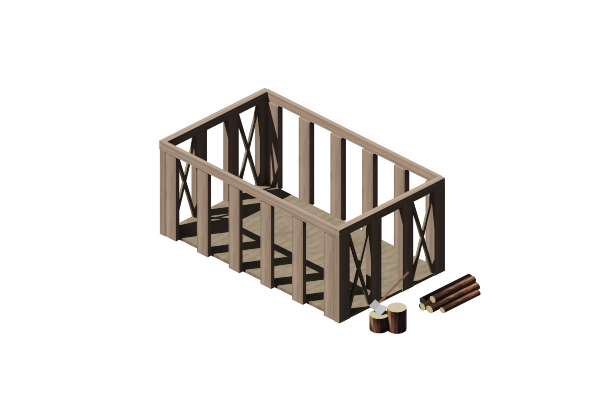
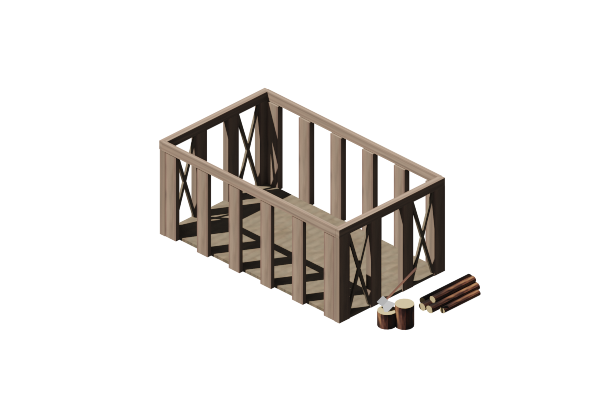
working shadow rendering

Changed region(s): [[0.6, 0.72, 0.69, 0.84], [0.66, 0.66, 0.69, 0.72], [0.72, 0.75, 0.75, 0.78]]

diff --git a/src/units/Building.cpp b/src/units/Building.cpp
@@ -1,9 +1,11 @@
 #include "units/Building.hpp"
+#include "scenes/WorldScene/Grid.hpp"
 
 namespace RTS{
 
-  Building::Building(GameManager* ptr, int t, int x, int y) : Unit(ptr, t, x, y){
-  
+  Building::Building(GameManager* ptr, Camera* c, int t, int x, int y) : Unit(ptr, c, t, x, y){
+    this->shadow.setPointCount(6);
+    this->shadow.setFillColor(Color(0, 0, 0, 128));
   }
 
   Building::~Building(){
@@ -11,15 +13,41 @@ namespace RTS{
   }
 
   void Building::presetTick(){
+    int fx = this->camera->getX() + this->texture_offset_x + ((position_x - position_y) * (TILEW/2));
+    int fy = this->camera->getY() + this->texture_offset_y + ((position_x + position_y) * (TILEH/2));
+    this->texture_position = this->gameManager->getWindow()->mapPixelToCoords(Vector2i(fx,fy));
+    this->texture.setPosition(this->texture_position.x, this->texture_position.y);
+    this->renderShadow();
+  }
 
+  void Building::presetDraw(){
+    this->gameManager->getWindow()->draw(this->shadow);
+    this->gameManager->getWindow()->draw(this->texture);
   }
 
   void Building::tick(){
-
+    this->presetTick();
   }
 
   void Building::draw(){
+    this->presetDraw();
+  }
 
+  void Building::setShadow(Vector2f p1, Vector2f p2 ,Vector2f p3, Vector2f p4, float scale){
+    this->sp[0] = p1 * scale;
+    this->sp[1] = p2 * scale;
+    this->sp[2] = p3 * scale;
+    this->sp[3] = p4 * scale;
+  }
+
+  void Building::renderShadow(){
+    int w = 50;
+    this->shadow.setPoint(0, Vector2f(this->texture_position.x + sp[0].x     , this->texture_position.y + sp[0].y));
+    this->shadow.setPoint(1, Vector2f(this->texture_position.x + sp[1].x     , this->texture_position.y + sp[1].y));
+    this->shadow.setPoint(2, Vector2f(this->texture_position.x + sp[1].x + w , this->texture_position.y + sp[1].y));
+    this->shadow.setPoint(3, Vector2f(this->texture_position.x + sp[2].x + w , this->texture_position.y + sp[2].y));
+    this->shadow.setPoint(4, Vector2f(this->texture_position.x + sp[3].x + w , this->texture_position.y + sp[3].y));
+    this->shadow.setPoint(5, Vector2f(this->texture_position.x + sp[3].x     , this->texture_position.y + sp[3].y));
   }
     
 }

diff --git a/src/scenes/WorldScene.cpp b/src/scenes/WorldScene.cpp
@@ -9,7 +9,9 @@ namespace RTS{
       this->debugging     = new BaseRendering(this->gameManager);
       this->gridRenderer  = new GridRendering(this->gameManager, this->grid, this->camera);
 
-      this->dummy = new Woodcutter(this->gameManager, TEAM_RED, 0, 0);
+      this->dummy         = new Woodcutter(this->gameManager, this->camera, TEAM_RED, 10, 10);
+      this->debugging->setTextColor(Color(255,255,255));
+      this->debugging->setTextSize(14);
    }
 
    WorldScene::~WorldScene(){
@@ -17,20 +19,19 @@ namespace RTS{
       delete this->camera;
       delete this->gridRenderer;
       delete this->grid;
-
       delete this->dummy;
    }
 
    void WorldScene::tick(){
       this->camera->tick();
       this->gridRenderer->tick();
+      this->dummy->tick();
    }
 
    void WorldScene::draw(){
-      debugging->setTextColor(Color(255,255,255));
-      debugging->setTextSize(14);
-      debugging->drawText("(" + to_string(this->camera->getX()) + ", " + to_string(this->camera->getY()) + ")", 20, 20, true);
-      this->gameManager->getWindow()->draw(*this->gridRenderer);
+      this->gameManager->getWindow()->draw(*(this->gridRenderer));
+      this->dummy->draw();
+      this->debugging->drawText("(" + to_string(this->camera->getX()) + ", " + to_string(this->camera->getY()) + ")", 20, 20, true);
    }
 
 }

diff --git a/src/rendering/GridRendering.cpp b/src/rendering/GridRendering.cpp
@@ -38,10 +38,10 @@ namespace RTS{
               this->gl_vertexfx[2].position = Vector2f(fx , fy + TILEH - this->grid->getPoint(x, y, 2));
               this->gl_vertexfx[3].position = Vector2f(fx - (TILEW / 2), fy + (TILEH / 2) - this->grid->getPoint(x, y, 3));
 
-              this->gl_vertexfx[0].texCoords = Vector2f((tx+0) * (TILEW+2), (ty+0) * (TILEW+2));
-              this->gl_vertexfx[1].texCoords = Vector2f((tx+1) * (TILEW-2), (ty+0) * (TILEW+2));
-              this->gl_vertexfx[2].texCoords = Vector2f((tx+1) * (TILEW-2), (ty+1) * (TILEW-2));
-              this->gl_vertexfx[3].texCoords = Vector2f((tx+0) * (TILEW+2), (ty+1) * (TILEW-2));
+              this->gl_vertexfx[0].texCoords = Vector2f((tx+0) * (TILEW+1), (ty+0) * (TILEW+2));
+              this->gl_vertexfx[1].texCoords = Vector2f((tx+1) * (TILEW-1), (ty+0) * (TILEW+2));
+              this->gl_vertexfx[2].texCoords = Vector2f((tx+1) * (TILEW-1), (ty+1) * (TILEW-2));
+              this->gl_vertexfx[3].texCoords = Vector2f((tx+0) * (TILEW+1), (ty+1) * (TILEW-2));
 
               for(int c = 0; c<4 ;c++){
                 this->gl_vertexfx[c].color = this->grid->getPointColor(x, y, c);

diff --git a/include/Unit.hpp b/include/Unit.hpp
@@ -9,6 +9,8 @@
 #include <SFML/Graphics.hpp>
 #include "GameManager.hpp"
 
+#include "scenes/WorldScene/Camera.hpp"
+
 using namespace sf;
 using namespace std;
 
@@ -18,6 +20,7 @@ namespace RTS{
 
     protected:
       GameManager*   gameManager;
+      Camera*        camera;
       Sprite         texture;
       int            position_x;
       int            position_y;
@@ -26,12 +29,19 @@ namespace RTS{
       int            teamtag;
       string         nametag;
 
+      int            texture_offset_x;
+      int            texture_offset_y;
+      Vector2f       texture_position;
+
     public:
-      Unit(GameManager*, int, int, int);
+      Unit(GameManager*, Camera*, int, int, int);
       virtual ~Unit();
 
       void setTexture(Texture*);
       void resetHealth(int);
+      void resetOffset(int, int);
+
+      Sprite* getSprite();
 
       virtual void tick() = 0;
       virtual void draw() = 0;

diff --git a/src/Unit.cpp b/src/Unit.cpp
@@ -2,8 +2,9 @@
 
 namespace RTS{
 
-  Unit::Unit(GameManager* ptr, int t, int x, int y){
+  Unit::Unit(GameManager* ptr, Camera* c, int t, int x, int y){
     this->gameManager = ptr;
+    this->camera      = c;
     this->teamtag     = t;
     this->position_x  = x;
     this->position_y  = y;
@@ -17,6 +18,17 @@ namespace RTS{
   void Unit::resetHealth(int h){
     this->health_max = h;
     this->health_cur = h;
+  }
+
+  void Unit::resetOffset(int ox, int oy){
+    this->texture_offset_x = ox;
+    this->texture_offset_y = oy;
+
+  }
+
+  Sprite* Unit::getSprite(){
+    return &(this->texture);
+
   }
 
   void Unit::setTexture(Texture* txt){

diff --git a/src/units/buildings/Woodcutter.cpp b/src/units/buildings/Woodcutter.cpp
@@ -2,11 +2,15 @@
 
 namespace RTS{
 
-  Woodcutter::Woodcutter(GameManager* ptr, int t, int x, int y) : Building(ptr, t, x, y){
-    this->setTexture(this->gameManager->getBatch()->getTexture(1));
+  Woodcutter::Woodcutter(GameManager* ptr, Camera* c, int t, int x, int y) : Building(ptr, c, t, x, y){
+    this->setTexture(this->gameManager->getBatch()->getTexture(2));
+    this->setShadow(Vector2f(160, 232), Vector2f(340, 324), Vector2f(443, 271), Vector2f(263, 182), .5f);
+    this->getSprite()->setScale(.5f, .5f);
+    this->resetOffset(-30, 20);
   }
 
   Woodcutter::~Woodcutter(){
 
   }
+  
 }

diff --git a/include/units/Building.hpp b/include/units/Building.hpp
@@ -6,13 +6,22 @@
 namespace RTS{
 
     class Building : public Unit{
+    protected:
+      ConvexShape shadow;
+      Vector2f    sp[4];      
+
     public:
-      Building(GameManager*, int, int, int);
+      Building(GameManager*, Camera*, int, int, int);
       ~Building();
 
+      void setShadow(Vector2f, Vector2f, Vector2f, Vector2f, float);
+      void renderShadow();
+
       void presetTick();
-      void tick();
-      void draw();
+      void presetDraw();
+
+      virtual void tick();
+      virtual void draw();
 
    };
 

diff --git a/include/units/buildings/Woodcutter.hpp b/include/units/buildings/Woodcutter.hpp
@@ -7,7 +7,7 @@ namespace RTS{
 
     class Woodcutter : public Building{
     public:
-      Woodcutter(GameManager*, int, int, int);
+      Woodcutter(GameManager*, Camera*, int, int, int);
       ~Woodcutter();
 
    };
